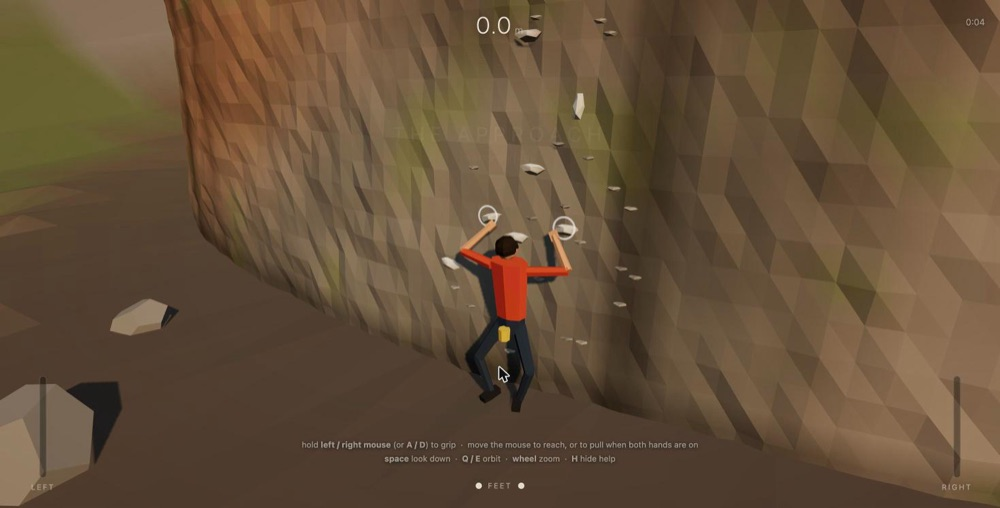
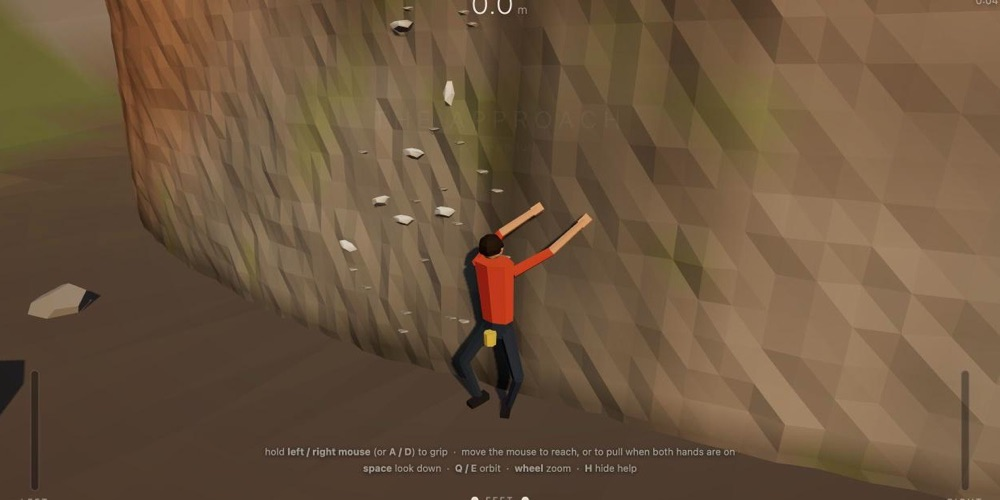
Add Learn Lean to Projects; retake thumbnails without cursor

diff --git a/content/projects.md b/content/projects.md
@@ -32,6 +32,13 @@ projects:
     action: "Play"
     tech: "three.js"
     blurb: "A free solo climbing game for the browser. One 62 m route, no rope. Your forearms tire, holds can be loose, and if you let go with both hands, you fall. Desktop browser, mouse and keyboard required."
+  - name: "Learn Lean"
+    url: "https://github.com/cjauvin/learn-lean"
+    repo: "https://github.com/cjauvin/learn-lean"
+    image: "/images/projects/learn-lean.jpg"
+    action: "Browse"
+    tech: "Lean 4"
+    blurb: "An interactive, puzzle-driven course in Lean 4: programming first, proofs second, with the punchline that they were the same thing all along. 73 exercises across 8 chapters, each with a test that goes red until you solve it, plus three browser applets for the things that are hard to see from inside a text editor."
 ---
 
 Small things I built for the pleasure of it, mostly browser toys. They are all open source.
